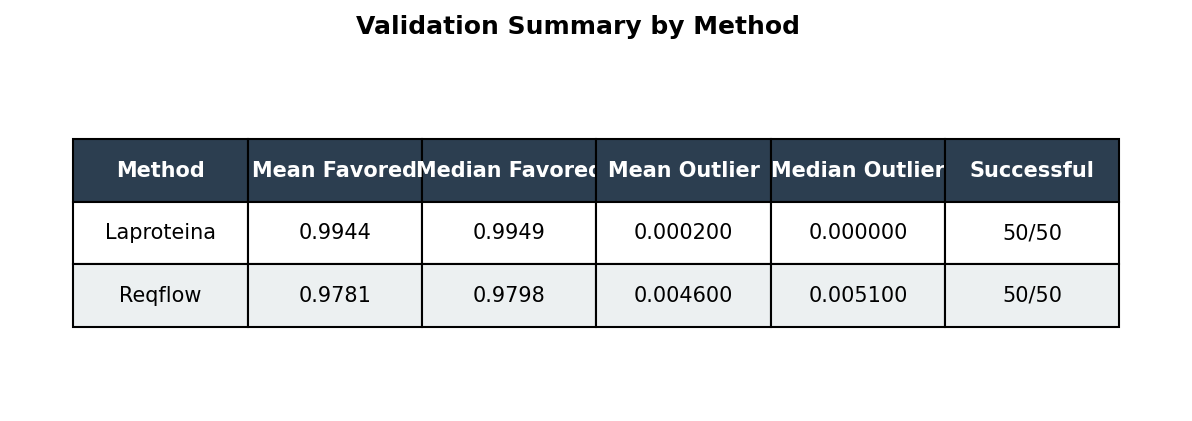
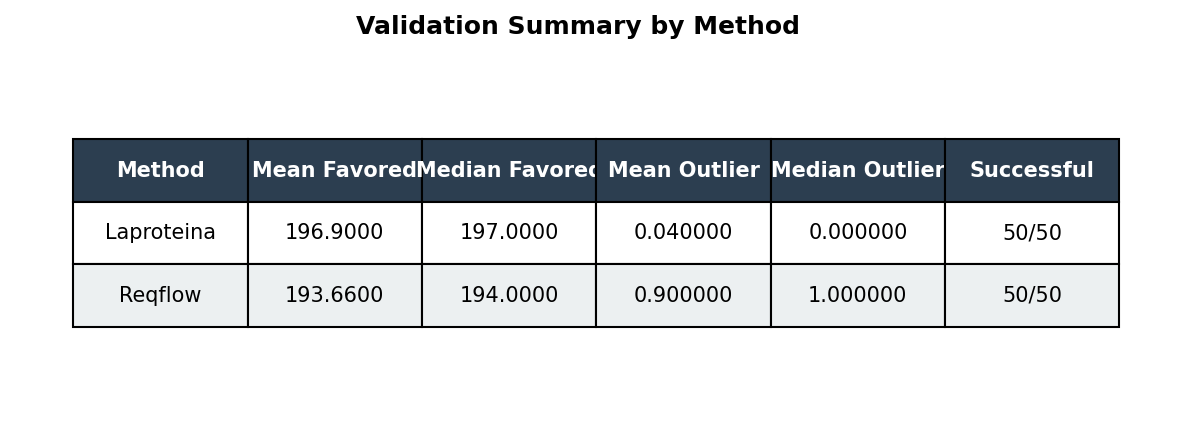
fixed validation_bonus.py

diff --git a/bonus/validate_bonus.py b/bonus/validate_bonus.py
@@ -125,10 +125,10 @@ def _infer_method(pdb_path):
     return "unknown"
 
 
-def _find_pdb_files(input_dir, recursive=False):
+def _find_pdb_files(input_dir, recursive=True):
     input_path = Path(input_dir)
-    # Recursive search is optional here because the bonus workflow can also
-    # be pointed at a flat directory of PDBs.
+    # By default search recursively to match core validate.py behavior.
+    # This finds PDBs in subdirectories like generated_pdbs/laproteina/ and generated_pdbs/reqflow/.
     if recursive:
         pdb_iter = input_path.rglob("*.pdb")
     else:
@@ -230,10 +230,12 @@ def validate_pdb(pdb_path, skip_clashscore=False, reduced_root=None, log_file=No
         "filename": os.path.basename(pdb_path),
         "method": _infer_method(pdb_path),  # Needed for method-level summaries
         "n_residues": None,
-        # Per assignment schema: rama_* store fractions directly
         "rama_favored": None,
         "rama_allowed": None,
         "rama_outlier": None,
+        "rama_favored_frac": None,
+        "rama_allowed_frac": None,
+        "rama_outlier_frac": None,
         "clashscore": "NA",
         "n_clashes": "NA",
         "clashscore_error": "",
@@ -277,15 +279,21 @@ def validate_pdb(pdb_path, skip_clashscore=False, reduced_root=None, log_file=No
             result["clashscore_error"] = "skipped by --skip-clashscore"
 
         result["n_residues"] = rama.n_total
-        # Per assignment schema: store fractions directly in rama_* columns
+        # Store both counts and fractions for compatibility with generate_plots.py
         if rama.n_total:
-            result["rama_favored"] = round(rama.n_favored / rama.n_total, 4)
-            result["rama_allowed"] = round(rama.n_allowed / rama.n_total, 4)
-            result["rama_outlier"] = round(rama.n_outliers / rama.n_total, 4)
+            result["rama_favored"] = rama.n_favored
+            result["rama_allowed"] = rama.n_allowed
+            result["rama_outlier"] = rama.n_outliers
+            result["rama_favored_frac"] = round(rama.n_favored / rama.n_total, 4)
+            result["rama_allowed_frac"] = round(rama.n_allowed / rama.n_total, 4)
+            result["rama_outlier_frac"] = round(rama.n_outliers / rama.n_total, 4)
         else:
             result["rama_favored"] = None
             result["rama_allowed"] = None
             result["rama_outlier"] = None
+            result["rama_favored_frac"] = None
+            result["rama_allowed_frac"] = None
+            result["rama_outlier_frac"] = None
 
     except Exception as exc:
         result["error"] = str(exc)
@@ -349,10 +357,14 @@ def validate_directory(
 
     fieldnames = [
         "filename",
+        "method",
         "n_residues",
         "rama_favored",
         "rama_allowed",
         "rama_outlier",
+        "rama_favored_frac",
+        "rama_allowed_frac",
+        "rama_outlier_frac",
         "clashscore",
         "n_clashes",
         "clashscore_error",
@@ -362,9 +374,7 @@ def validate_directory(
     with open(output_csv, "w", newline="") as handle:
         writer = csv.DictWriter(handle, fieldnames=fieldnames)
         writer.writeheader()
-        # Only write fields that are in fieldnames (filters out 'method' which is for internal summaries)
-        filtered_results = [{k: v for k, v in r.items() if k in fieldnames} for r in results]
-        writer.writerows(filtered_results)
+        writer.writerows(results)
 
     if summary_out:
         _write_method_summary(results, summary_out)
@@ -393,9 +403,10 @@ def main():
         help="Output CSV path for per-method summary statistics",
     )
     parser.add_argument(
-        "--recursive",
-        action="store_true",
-        help="Recursively search input directory for PDB files",
+        "--flat-search",
+        action="store_false",
+        dest="recursive",
+        help="Search only top-level directory (default: recursive search)",
     )
     parser.add_argument(
         "--skip-clashscore",

diff --git a/bonus/README.md b/bonus/README.md
@@ -15,7 +15,7 @@ A production-ready validator that extends the core `validate.py` with:
 - **Structured error logging**: Logs validation failures to `logs/validation_errors.txt` with timestamps and error context
 - **Flexible CLI options**:
   - `--skip-clashscore`: Disable clashscore computation entirely
-  - `--recursive`: Search subdirectories for PDB files
+  - `--flat-search`: Search only top-level directory (recursive is default)
   - `--reduced-dir`: Customize output directory for hydrogen-added structures
   - `--log-file`: Customize error log location
 
@@ -28,8 +28,8 @@ python bonus/validate_bonus.py generated_pdbs --out bonus/results.csv
 # Ramachandran-only (no clashscore preprocessing)
 python bonus/validate_bonus.py generated_pdbs --out bonus/results.csv --skip-clashscore
 
-# Recursive search with verbose output
-python bonus/validate_bonus.py . --out bonus/results.csv --recursive -v
+# Search from current directory with verbose output (recursive by default)
+python bonus/validate_bonus.py . --out bonus/results.csv -v
 ```
 
 ### 2. Automatic Per-Method Summary Statistics
@@ -143,7 +143,7 @@ bonus/
 | Clashscore | Optional | Automatic with graceful fallback |
 | Error logging | None | Structured, timestamped |
 | Per-method summary | None | ✓ Automatic |
-| Recursive search | None | ✓ `--recursive` |
+| Recursive search | ✓ Default | ✓ Default (use `--flat-search` to disable) |
 | Skip clashscore | None | ✓ `--skip-clashscore` |
 | Plot generation | None | ✓ Separate script |
 
